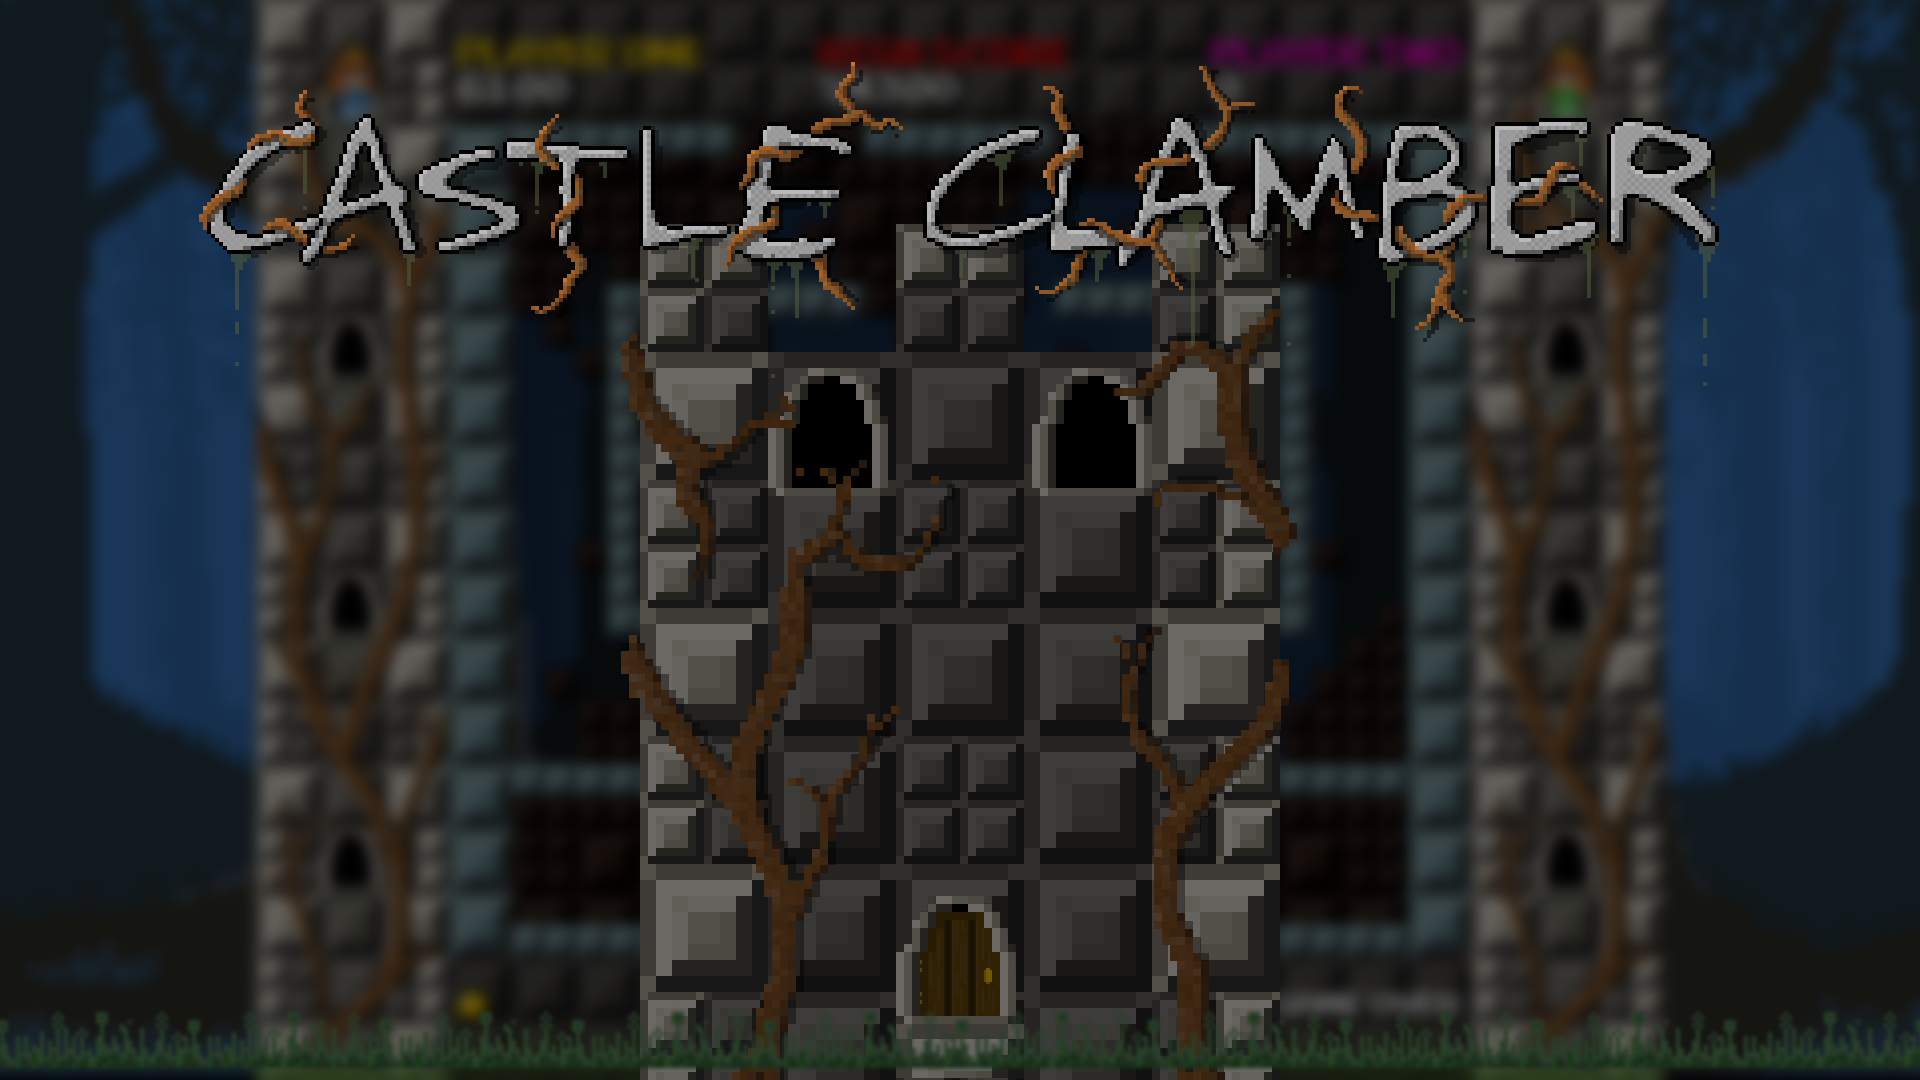
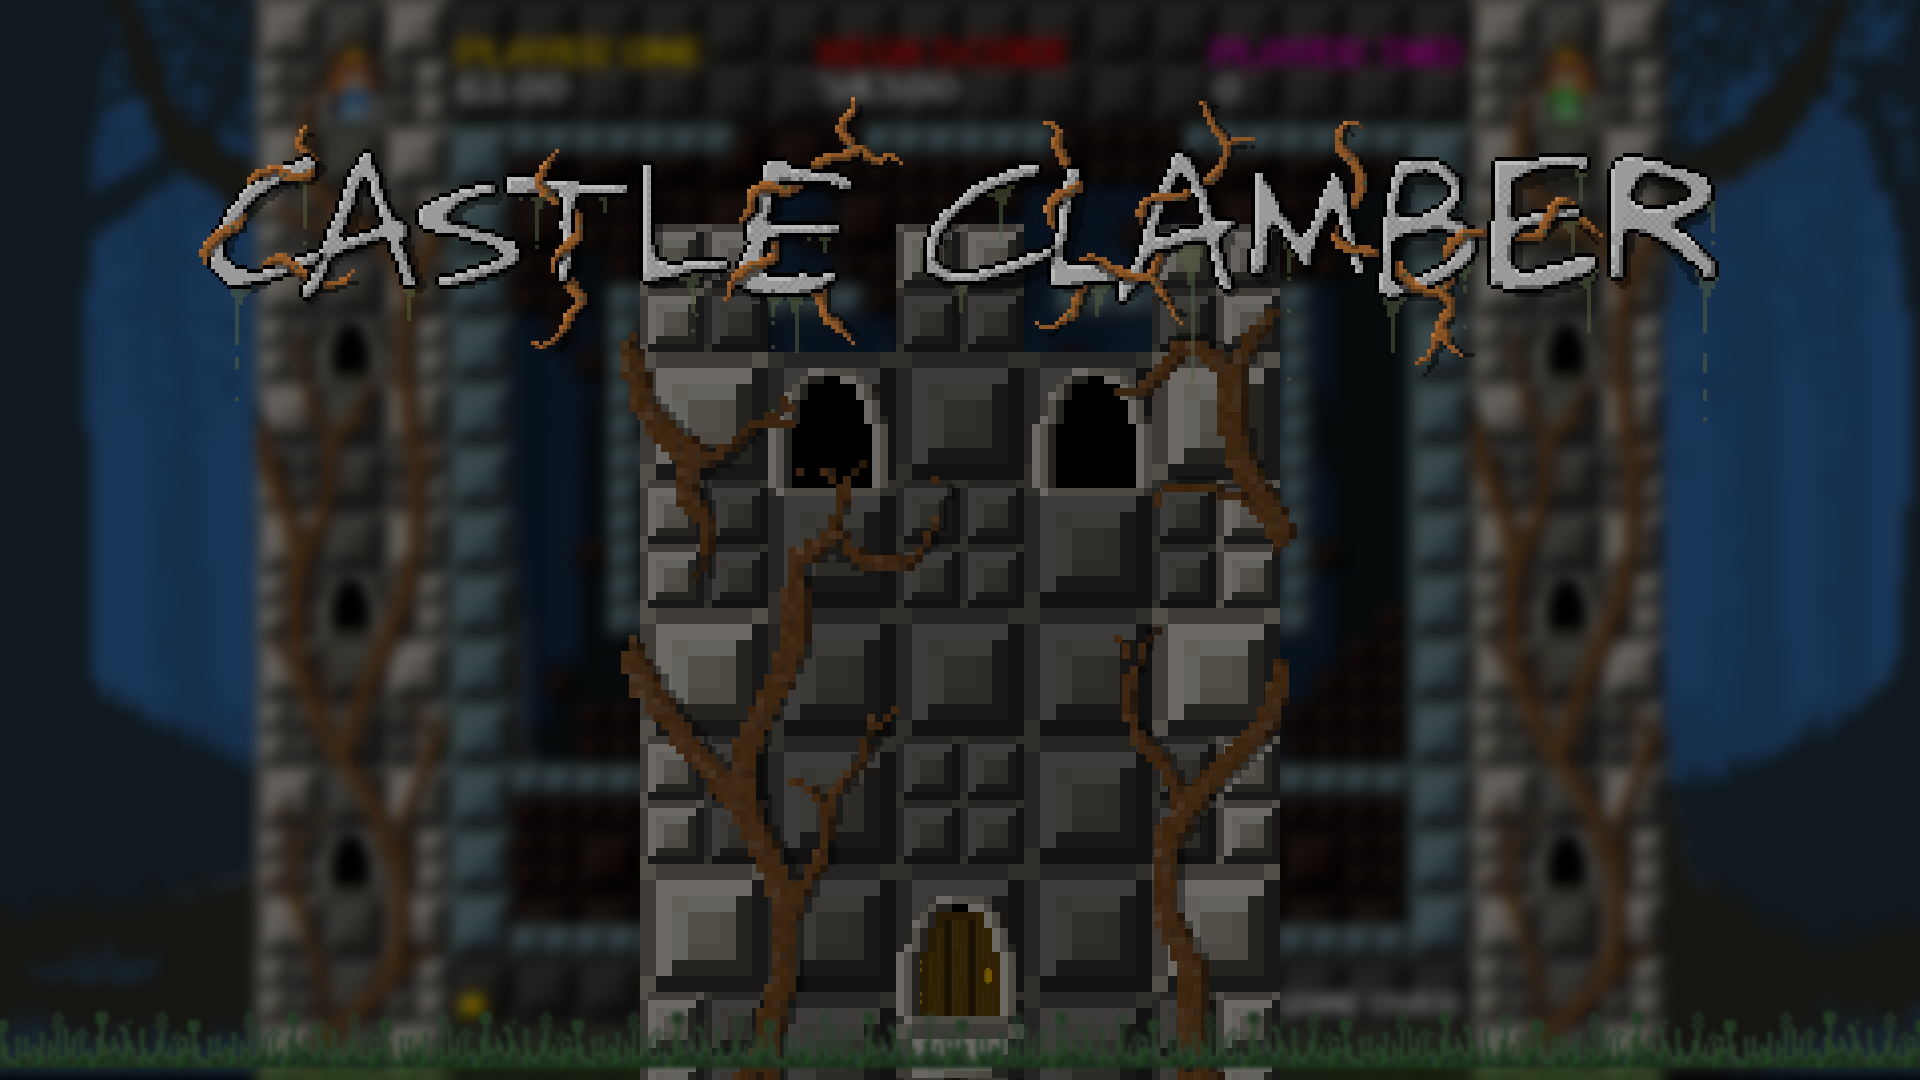
update menu graphics

Changed region(s): [[0.4688, 0.0611, 0.9062, 0.3361], [0.0938, 0.0611, 0.4688, 0.3056]]

diff --git a/Demo/src/MenuState.cpp b/Demo/src/MenuState.cpp
@@ -389,6 +389,23 @@ void MenuState::createScene()
         }
     }
 
+    //help sign
+    entity = m_scene.createEntity();
+    bounds = entity.addComponent<xy::Sprite>(m_textureResource.get("assets/images/help_sign.png")).getTextureBounds();
+    entity.addComponent<xy::Transform>().setPosition(xy::DefaultSceneSize.x - (bounds.width + 202.f), xy::DefaultSceneSize.y - bounds.height);
+    entity.addComponent<xy::Drawable>().setDepth(9);
+    entity.addComponent<xy::UIHitBox>().callbacks[xy::UIHitBox::MouseUp] =
+        m_scene.getSystem<xy::UISystem>().addMouseButtonCallback([&mb](xy::Entity, sf::Uint64 flags)
+    {
+        if (flags & xy::UISystem::LeftMouse)
+        {
+            auto* msg = mb.post<MenuEvent>(MessageID::MenuMessage);
+            msg->action = MenuEvent::HelpButtonClicked;
+        }
+    });
+    entity.getComponent<xy::UIHitBox>().area = bounds;
+
+
     m_scene.getActiveCamera().getComponent<xy::AudioListener>().setVolume(1.f);
 }
 
@@ -436,6 +453,7 @@ void MenuState::createHelp()
     m_helpScene.addSystem<xy::CallbackSystem>(mb);
     m_helpScene.addSystem<xy::SpriteSystem>(mb);
     m_helpScene.addSystem<xy::RenderSystem>(mb);
+    m_helpScene.addSystem<xy::TextRenderer>(mb);
 
     //clicker
     auto entity = m_helpScene.createEntity();
@@ -448,15 +466,19 @@ void MenuState::createHelp()
             msg->action = MenuEvent::HelpButtonClicked;
         }
     });
-    entity.getComponent<xy::UIHitBox>().area = { 0.f, 0.f, 52.f, 52.f };
+    entity.getComponent<xy::UIHitBox>().area = { 0.f, 0.f, 64.f, 64.f };
     auto& tx = entity.addComponent<xy::Transform>();
-    tx.setPosition(670.f, 968.f);
+    tx.setPosition(1518.f, 20.f);
+    /*entity.addComponent<xy::Text>(m_fontResource.get("assets/fonts/Cave-Story.ttf")).setString("X");
+    entity.getComponent<xy::Text>().setCharacterSize(56);
+    entity.getComponent<xy::Text>().setFillColour({ 200, 10, 220, 110 });*/
+
 
     //help menu
     entity = m_helpScene.createEntity();
     entity.addComponent<xy::Sprite>(m_textureResource.get("assets/images/help.png"));
     entity.addComponent<xy::Drawable>();
-    entity.addComponent<xy::Transform>().setPosition(430.f, HelpMenuCallback::HidePosition);
+    entity.addComponent<xy::Transform>().setPosition(0.f, HelpMenuCallback::HidePosition);
     entity.getComponent<xy::Transform>().addChild(tx);
     entity.addComponent<xy::Callback>().active = true;
     entity.getComponent<xy::Callback>().function = HelpMenuCallback(m_helpShown, m_scene);

diff --git a/xyginext/src/imgui/imgui_sfml.cpp b/xyginext/src/imgui/imgui_sfml.cpp
@@ -154,7 +154,7 @@ bool ProcessEvent(const sf::Event& event)
             s_mousePressed[event.mouseButton.button] = (event.type == sf::Event::MouseButtonPressed);
             break;
         case sf::Event::MouseWheelMoved:
-            io.MouseWheel += (float)event.mouseWheel.delta;
+            io.MouseWheel += static_cast<float>(event.mouseWheel.delta);
             break;
         case sf::Event::KeyPressed: // fall-through
         case sf::Event::KeyReleased:
@@ -290,8 +290,8 @@ void RenderDrawLists(ImDrawData* draw_data)
 
     // scale stuff (needed for proper handling of window resize)
     ImGuiIO& io = ImGui::GetIO();
-    int fb_width = (int)(io.DisplaySize.x * io.DisplayFramebufferScale.x);
-    int fb_height = (int)(io.DisplaySize.y * io.DisplayFramebufferScale.y);
+    int fb_width = static_cast<int>(io.DisplaySize.x * io.DisplayFramebufferScale.x);
+    int fb_height = static_cast<int>(io.DisplaySize.y * io.DisplayFramebufferScale.y);
     if (fb_width == 0 || fb_height == 0) { return; }
     draw_data->ScaleClipRects(io.DisplayFramebufferScale);
 

diff --git a/Demo/src/MenuCallbacks.hpp b/Demo/src/MenuCallbacks.hpp
@@ -90,7 +90,7 @@ class HelpBackgroundCallback final
 {
 private:
     static constexpr float MaxTime = 0.5f;
-    static constexpr float MaxAlpha = 102.f;
+    static constexpr float MaxAlpha = 82.f;
 
 public:
     HelpBackgroundCallback(const bool& shown)
